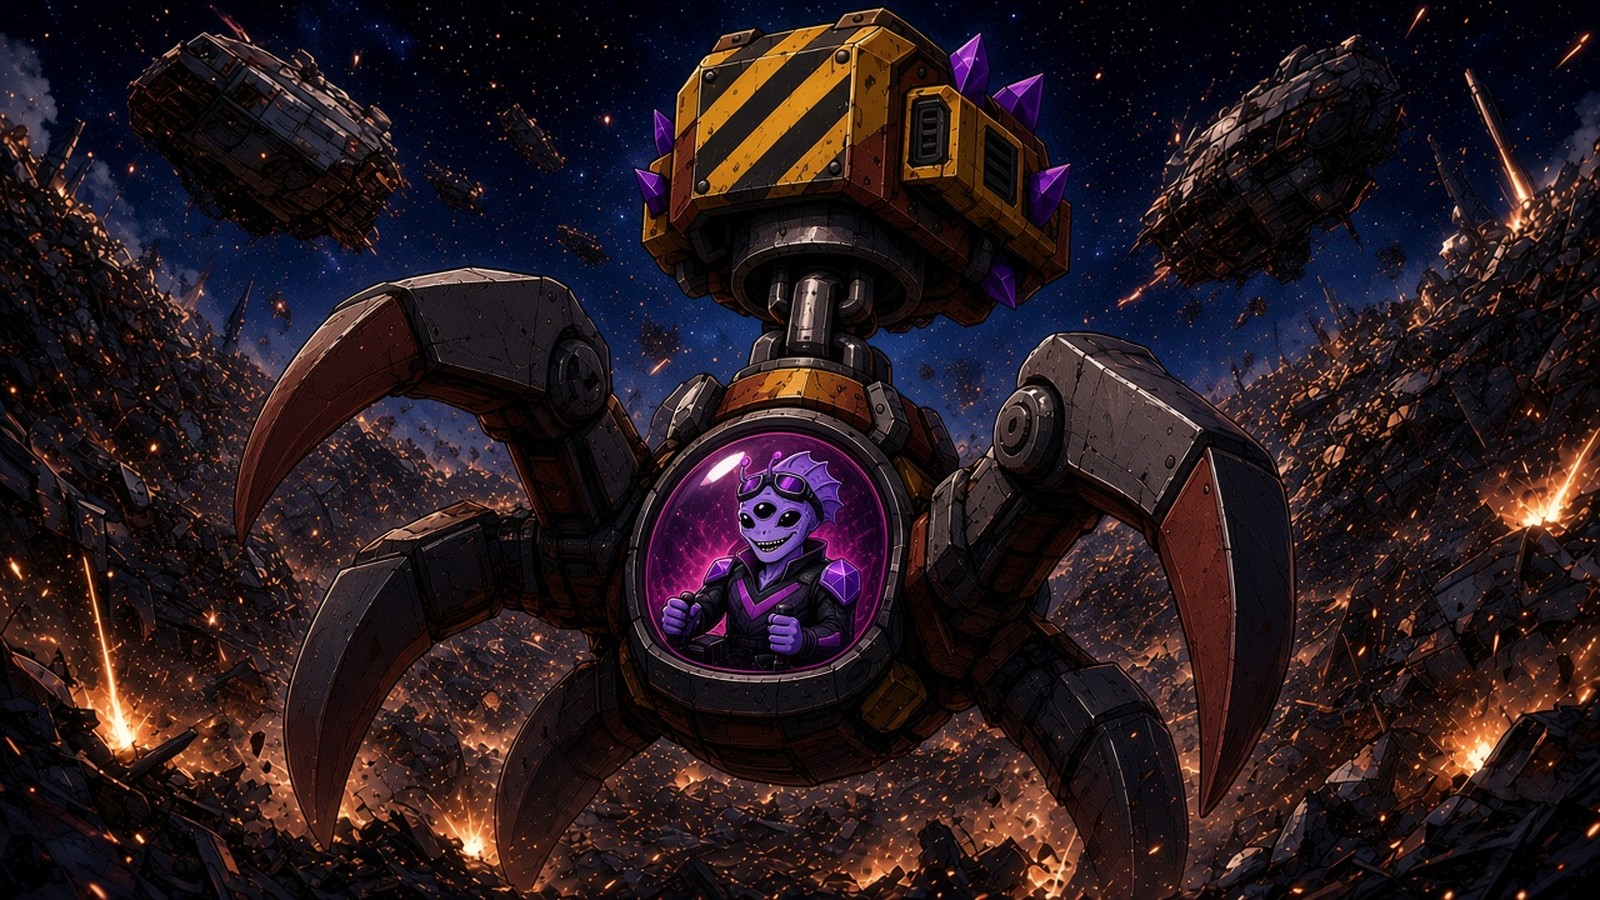
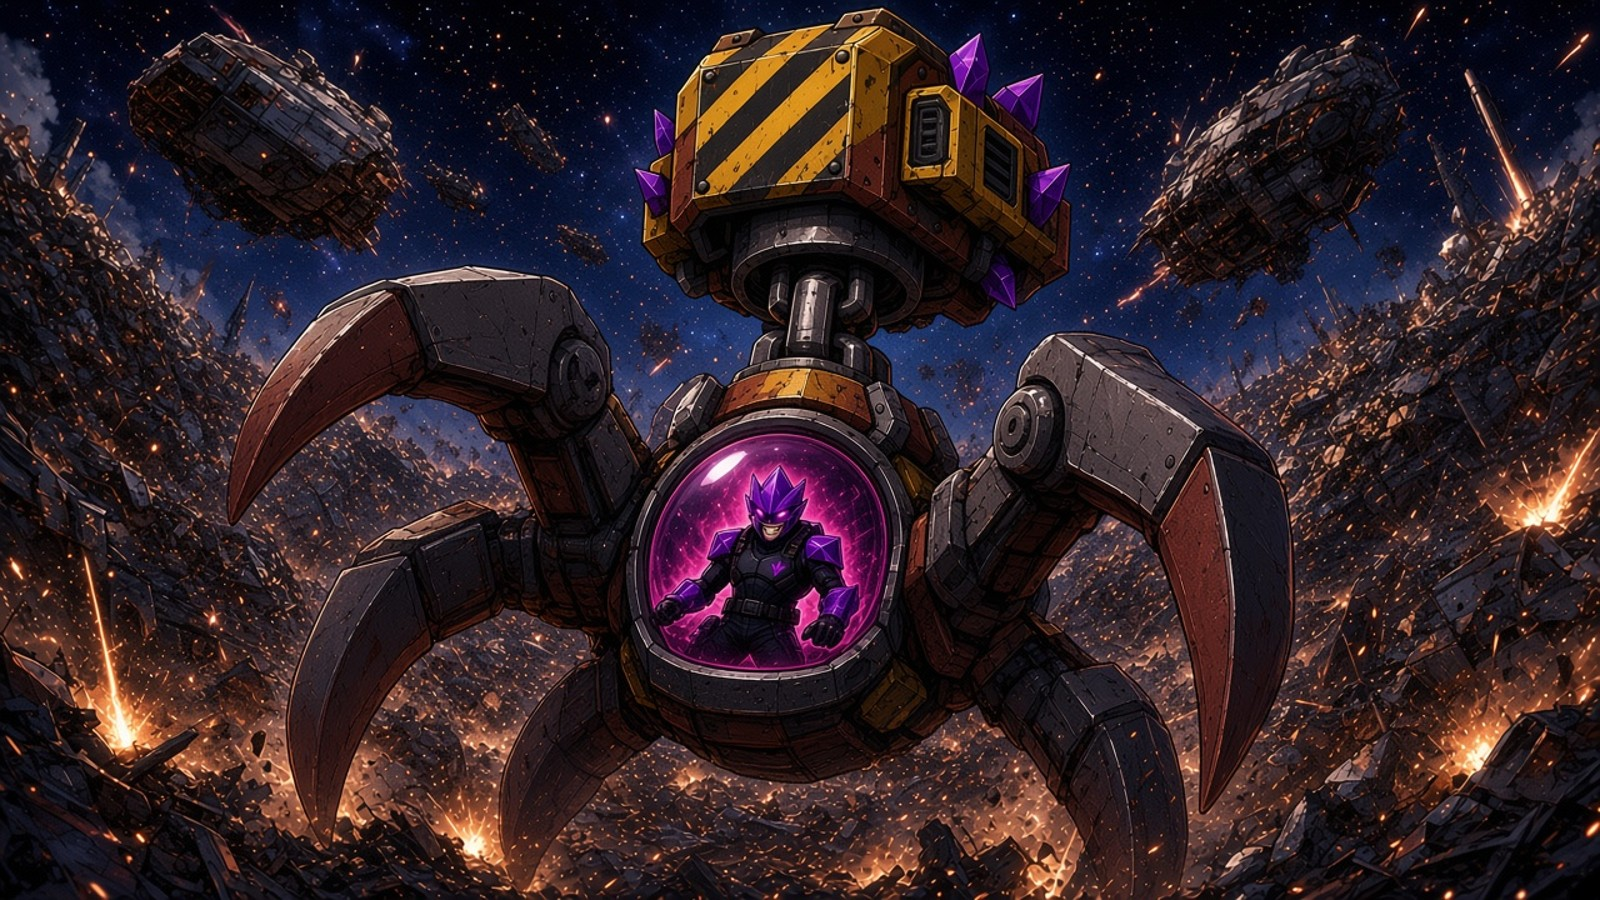
b35 8c6e852 Kreel concept restore

diff --git a/game.js b/game.js
@@ -1874,7 +1874,7 @@ function chunk(str,n){const sen=str.match(/[^.!?]+[.!?]+['"]?\s*|[^.!?]+$/g)||[s
 function playComic(beats,onEnd){beats=splitB(beats);CB=beats;CEND=onEnd;comicI=0;comicT=0;go('comic');}
 function endComic(){if(CEND){const f=CEND;CEND=null;CB=splitB(COMIC);f();return;}seenComic=true;try{localStorage.setItem('gr_comic','1');}catch(e){}go('select');}
 function comicArt(){const tag=(arr,p)=>arr.forEach((b,i)=>{b.img=b.img||p+String(i+1).padStart(2,'0');});tag(COMIC,'c');tag(INTER1,'i1_');tag(MOONWIN,'mw_');tag(MARSARR,'ma_');tag(MARSLAND,'ml_');tag(MARSGO,'mg_');tag(MARSWIN,'mx_');
- fetch('assets/comic/manifest.json').then(r=>r.ok?r.json():[]).then(l=>{for(const f of l||[]){const m=String(f).match(/^(.+)\.(png|jpe?g)$/i);if(m)loadImg('comic_'+m[1],'assets/comic/'+f+'?v=b34');}}).catch(()=>{});}
+ fetch('assets/comic/manifest.json').then(r=>r.ok?r.json():[]).then(l=>{for(const f of l||[]){const m=String(f).match(/^(.+)\.(png|jpe?g)$/i);if(m)loadImg('comic_'+m[1],'assets/comic/'+f+'?v=b35');}}).catch(()=>{});}
 
 const WHO=[['It holds the power','DR. VEGA'],['Go far','DR. VEGA'],['Nothing gets','ACE KREEL'],['This isn','ACE KREEL'],['Setting her down','@'],['You win THIS','BIG BLORP'],['Two Keys safe','@'],['Faster! Blorp','BIG BLORP'],['There\'s the colony','@'],['Big Blorp is back','BIG BLORP'],['My whale','BIG BLORP'],['Okay, okay','DUST WHALE'],['The water is back','PIP-7'],['DECODED: HELP','CODED SIGNAL'],['Someone\'s locked','@'],['Krool! Move','BIG BLORP'],['There it is','@'],['Hop in','@'],['BEEP. I am Comet','COMET'],['The prisoner is','@']];
 function whoOf(q,b){if(q.who)return q.who==='@'?CAPS[cap].name:q.who;const s=q.s||'';for(const[k,n]of WHO)if(s.startsWith(k))return n==='@'?CAPS[cap].name:n;if(b&&b.img==='c10')return 'HAYES';if(b&&b.img==='c07')return 'MALAKAR';return CAPS[cap].name;}
